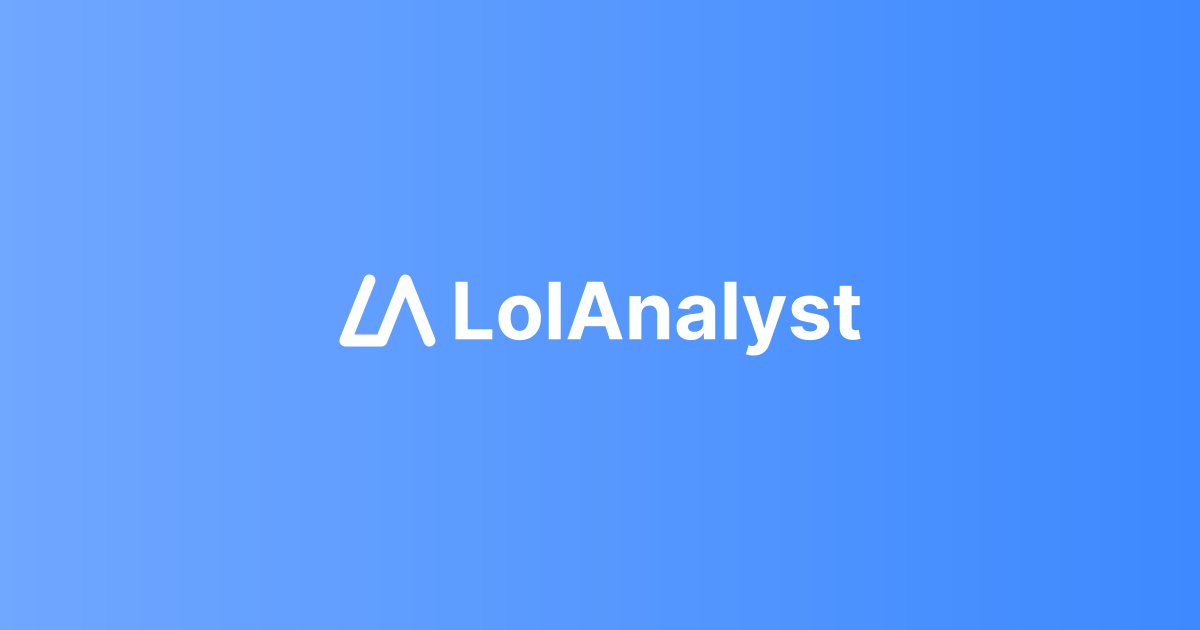
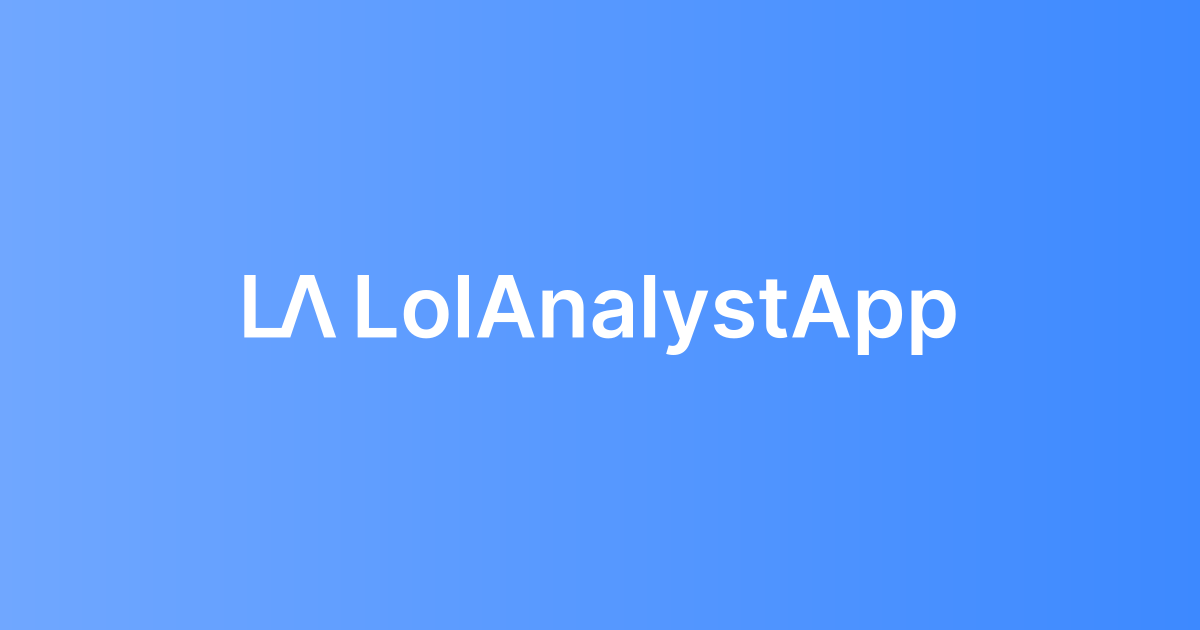
Updates name

Changed region(s): [[0.185, 0.4222, 0.8017, 0.573]]

diff --git a/public/index.html b/public/index.html
@@ -1,13 +1,14 @@
 <!DOCTYPE html>
 <html lang="en">
   <head>
-    <link rel="icon" href="%PUBLIC_URL%/favicon.svg" />
+    <link rel="icon" href="%PUBLIC_URL%/favicon.ico" />
 
     <!-- Primary Meta Tags -->
-    <title>LolAnalyst</title>
-    <meta name="title" content="LolAnalyst" />
+    <title>LolAnalystApp | op.gg alternative designed for south east asian servers</title>
     <!-- prettier-ignore -->
-    <meta name="description" content="LolAnalyst is a desktop app to analyse league of legends profile and champ select for south east asian servers.">
+    <meta name="title" content="LolAnalystApp | op.gg alternative designed for south east asian servers" />
+    <!-- prettier-ignore -->
+    <meta name="description" content="LolAnalystApp is a desktop app to analyse league of legends profile and champ select for south east asian servers.">
     <meta name="viewport" content="width=device-width, initial-scale=1" />
     <meta name="theme-color" content="#15181e" />
     <meta charset="utf-8" />
@@ -15,17 +16,19 @@
     <!-- Open Graph / Facebook -->
     <meta property="og:type" content="website" />
     <meta property="og:url" content="https://lolanalyst.app/" />
-    <meta property="og:title" content="LolAnalyst" />
     <!-- prettier-ignore -->
-    <meta property="og:description" content="LolAnalyst is a desktop app to analyse league of legends profile and champ select for south east asian servers." />
+    <meta property="og:title" content="LolAnalystApp | op.gg alternative designed for south east asian servers" />
+    <!-- prettier-ignore -->
+    <meta property="og:description" content="LolAnalystApp is a desktop app to analyse league of legends profile and champ select for south east asian servers." />
     <meta property="og:image" content="%PUBLIC_URL%/og-image.png" />
 
     <!-- Twitter -->
     <meta property="twitter:card" content="summary_large_image" />
     <meta property="twitter:url" content="https://lolanalyst.app/" />
-    <meta property="twitter:title" content="LolAnalyst" />
     <!-- prettier-ignore -->
-    <meta property="twitter:description" content="LolAnalyst is a desktop app to analyse league of legends profile and champ select for south east asian servers." />
+    <meta property="twitter:title" content="LolAnalystApp | op.gg alternative designed for south east asian servers" />
+    <!-- prettier-ignore -->
+    <meta property="twitter:description" content="LolAnalystApp is a desktop app to analyse league of legends profile and champ select for south east asian servers." />
     <meta property="twitter:image" content="%PUBLIC_URL%/og-image.png" />
 
     <!-- adsense -->
@@ -61,7 +64,6 @@
       work correctly both with client-side routing and a non-root public URL.
       Learn how to configure a non-root public URL by running `npm run build`.
     -->
-    <title>LolAnalyst</title>
   </head>
   <body>
     <noscript>You need to enable JavaScript to run this app.</noscript>

diff --git a/src/pages/Home.jsx b/src/pages/Home.jsx
@@ -8,15 +8,19 @@ export default function Home() {
   return (
     <div className="home">
       <div className="main-header">
-        <div className="main-header-title">
-          <img
-            src={process.env.PUBLIC_URL + "/logo-title.svg"}
-            className="main-header-logo"
-            alt="logo"
-          />
-          <div className="beta-tag">beta</div>
+        <div className="title-description">
+          <div className="main-header-title">
+            <img
+              src={process.env.PUBLIC_URL + "/logo-title.svg"}
+              className="main-header-logo"
+              alt="logo"
+            />
+            <div className="beta-tag body">beta</div>
+          </div>
+          <div className="description gray">
+            op.gg alternative designed for south east asian servers
+          </div>
         </div>
-        <div className="main-header-subtitle">op.gg alternative for south east asian servers.</div>
         <div
           className="download-button"
           onClick={() => window.open(config.latestVersionLink, "_blank")}

diff --git a/src/components/RiotLegalBoilerplate.jsx b/src/components/RiotLegalBoilerplate.jsx
@@ -4,10 +4,10 @@ export default function RiotLegalBoilerplate() {
   return (
     <div className="footer">
       <div className="legal-boilerplate muted">
-        LolAnalyst isn't endorsed by Riot Games and doesn't reflect the views or opinions of Riot
-        Games or anyone officially involved in producing or managing Riot Games properties. Riot
-        Games, and all associated properties are trademarks or registered trademarks of Riot Games,
-        Inc.
+        LolAnalystApp isn't endorsed by Riot Games and doesn't reflect the views or opinions of
+        Riot Games or anyone officially involved in producing or managing Riot Games properties.
+        Riot Games, and all associated properties are trademarks or registered trademarks of Riot
+        Games, Inc.
       </div>
     </div>
   );

diff --git a/src/css/themes.css b/src/css/themes.css
@@ -23,7 +23,8 @@
   --main-subheading: normal bold normal 2rem/2.1rem var(--font-family);
   --display: normal normal 400 3rem/3.3rem var(--font-family);
   --heading: normal normal bold 1.5rem/2rem var(--font-family);
-  --body: normal normal bold 1em/18px var(--font-family);
+  --description: normal normal 400 20px/24px var(--font-family);
+  --body: normal normal bold 15px/18px var(--font-family);
   --heading-small: normal normal bold 18px/22px var(--font-family);
   --body-small: normal normal normal 12px/15px var(--font-family);
   --legal-boilerplate: italic normal normal 9px/11px var(--font-family);

diff --git a/src/css/home.css b/src/css/home.css
@@ -13,7 +13,7 @@
 }
 
 .main-header > :not(:last-child) {
-  margin-bottom: 8px;
+  margin-bottom: 24px;
 }
 
 .beta-tag {
@@ -26,7 +26,6 @@
 }
 
 .main-header-title {
-  font: var(--heading);
   display: flex;
   flex-direction: row;
   justify-content: center;
@@ -42,10 +41,8 @@
   width: auto;
 }
 
-.main-header-subtitle {
-  font: var(--main-subheading);
-  text-align: center;
-  color: var(--gray);
+.title-description > :not(:last-child) {
+  margin-bottom: 8px;
 }
 
 .contents {

diff --git a/src/components/Navbar.jsx b/src/components/Navbar.jsx
@@ -1,13 +1,12 @@
 import React from "react";
 import "../css/navbar.css";
-import { ReactComponent as Logo } from "../images/logo.svg";
 import config from "../json/config";
 function Navbar() {
   return (
     <div className="navbar">
       <div className="navbar-item">
         <a href="/">
-          <Logo className="logo" fill="white" />
+          <img src={process.env.PUBLIC_URL + "/logo.svg"} alt="logo" />
         </a>
       </div>
       <div className="navbar-item">

diff --git a/src/css/typography.css b/src/css/typography.css
@@ -6,12 +6,12 @@
   font: var(--main-heading);
 }
 
-.main-subheading {
-  font: var(--main-subheading);
-}
-
 .heading {
   font: var(--heading);
+}
+
+.description {
+  font: var(--description);
 }
 
 .heading-small {

diff --git a/src/css/navbar.css b/src/css/navbar.css
@@ -19,11 +19,6 @@
   cursor: pointer;
 }
 
-.logo {
-  height: 24px;
-  width: 32px;
-}
-
 .discord-logo-small {
   height: 32px;
   width: 28.5px;

diff --git a/README.md b/README.md
@@ -1,3 +1,3 @@
-# lol-analyst-landing-page
+# lol-analyst-app-landing-page
 
-Landing page for LolAnalyst.
+Landing page for LolAnalystApp.
